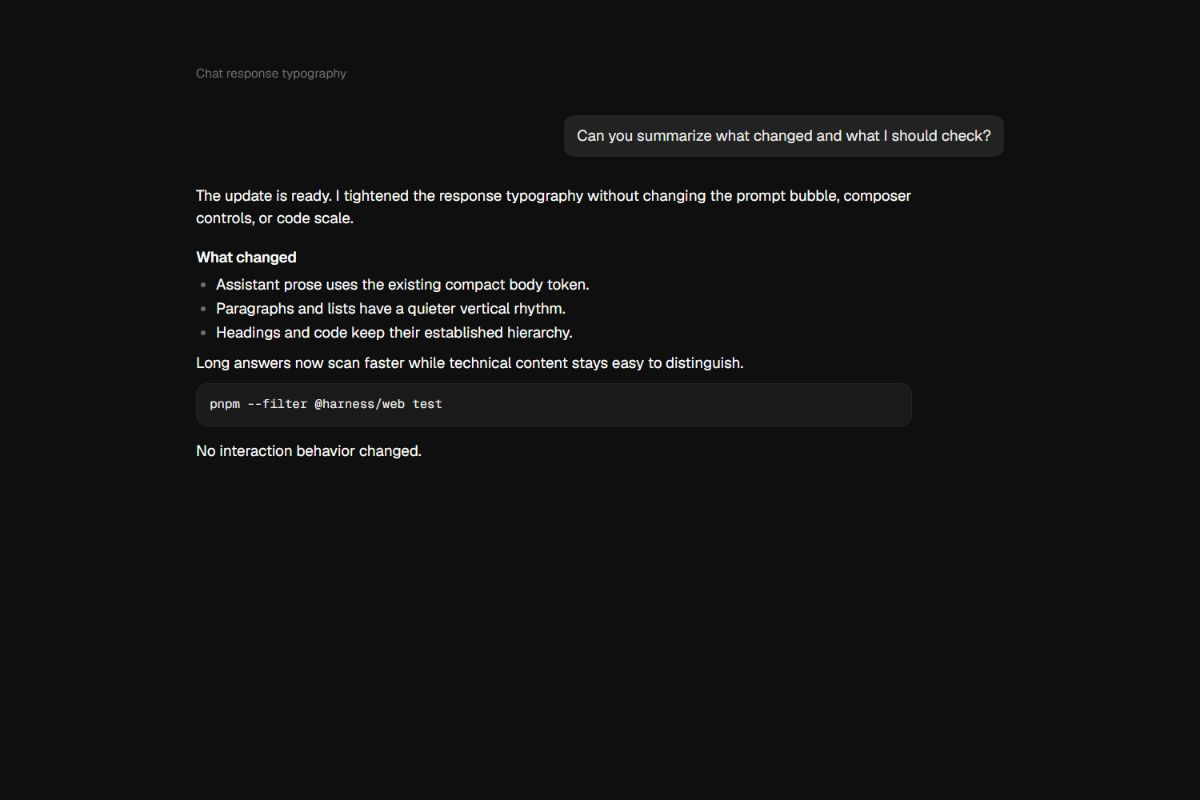
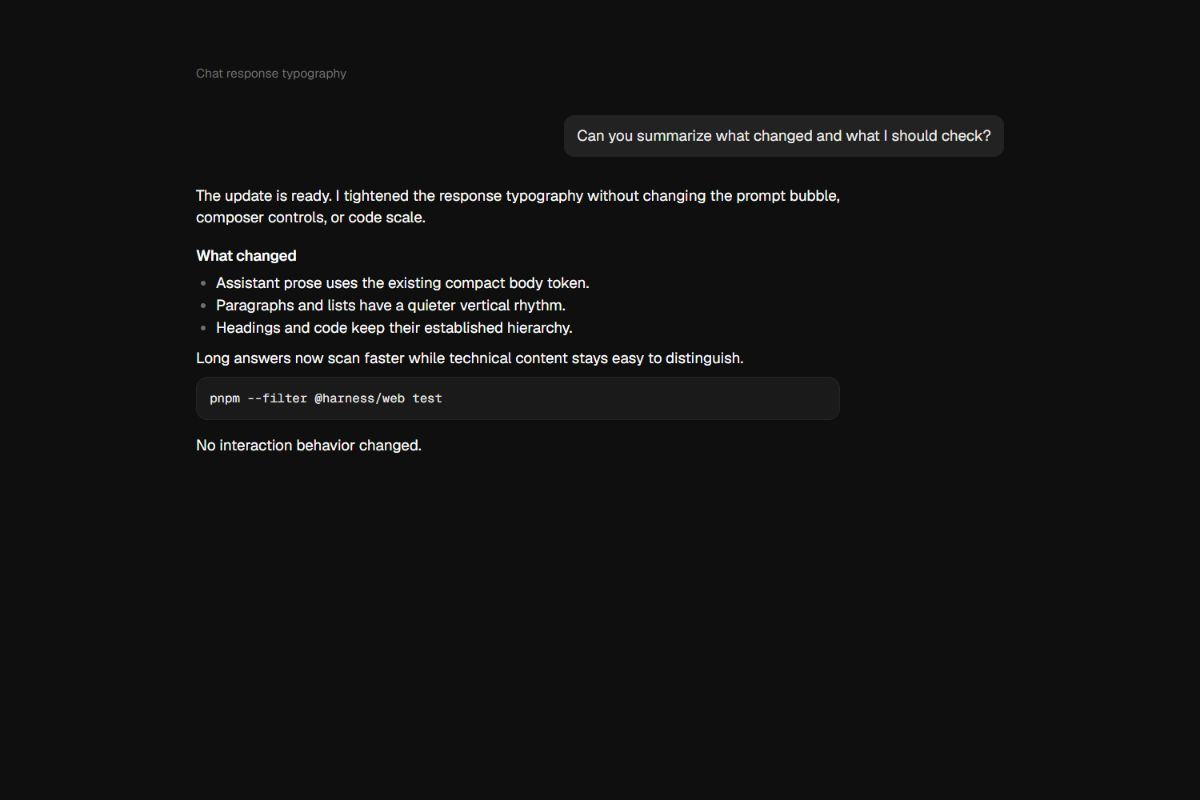
fix(chat): scope compact leading to response prose
Keep code blocks and completion rails on their established line metrics; recapture evidence with identical scroll and framing.

Changed region(s): [[0.1542, 0.3125, 0.6167, 0.5938], [0.1542, 0.25, 0.37, 0.2812], [0.7092, 0.2188, 0.7708, 0.25]]

diff --git a/apps/web/src/styles/thread-reply-spacing.test.ts b/apps/web/src/styles/thread-reply-spacing.test.ts
@@ -8,6 +8,10 @@ describe('thread reply spacing', () => {
   it('keeps assistant prose compact without shrinking prompts or code', () => {
     const thread = css.match(/\.thread \{(?<body>[\s\S]*?)\n\}/)?.groups?.['body']
     const reply = css.match(/\.reply \{(?<body>[\s\S]*?)\n\}/)?.groups?.['body']
+    const responseMarkdown = css.match(/\.reply > \.md \{(?<body>[\s\S]*?)\n\}/)?.groups?.['body']
+    const proseLeading = css.match(
+      /\.reply > \.md :is\(p, ul, ol, blockquote\) \{(?<body>[\s\S]*?)\n\}/,
+    )?.groups?.['body']
     const proseSpacing = css.match(
       /\.reply > \.md p,\n\.reply > \.md ul,\n\.reply > \.md ol \{(?<body>[\s\S]*?)\n\}/,
     )?.groups?.['body']
@@ -15,8 +19,11 @@ describe('thread reply spacing', () => {
     const code = css.match(/\.md pre \{(?<body>[\s\S]*?)\n\}/)?.groups?.['body']
 
     expect(thread).toContain('font-size: var(--t-lg)')
-    expect(reply).toContain('font-size: var(--t-md)')
-    expect(reply).toContain('line-height: 1.45')
+    expect(reply).not.toContain('font-size')
+    expect(reply).not.toContain('line-height')
+    expect(responseMarkdown).toContain('font-size: var(--t-md)')
+    expect(responseMarkdown).toContain('line-height: 1.52')
+    expect(proseLeading).toContain('line-height: 1.45')
     expect(proseSpacing).toContain('margin-bottom: 6px')
     expect(listItem).toContain('margin-block: 0')
     expect(code).toContain('font-size: var(--t-sm)')

diff --git a/apps/web/src/styles/app.css b/apps/web/src/styles/app.css
@@ -6167,13 +6167,17 @@
 
 .reply {
   color: var(--response-text);
-  font-size: var(--t-md);
-  line-height: 1.45;
   position: relative;
 }
 
 .reply > .md {
+  font-size: var(--t-md);
+  line-height: 1.52;
   max-width: 72ch;
+}
+
+.reply > .md :is(p, ul, ol, blockquote) {
+  line-height: 1.45;
 }
 
 .reply > .md p,
